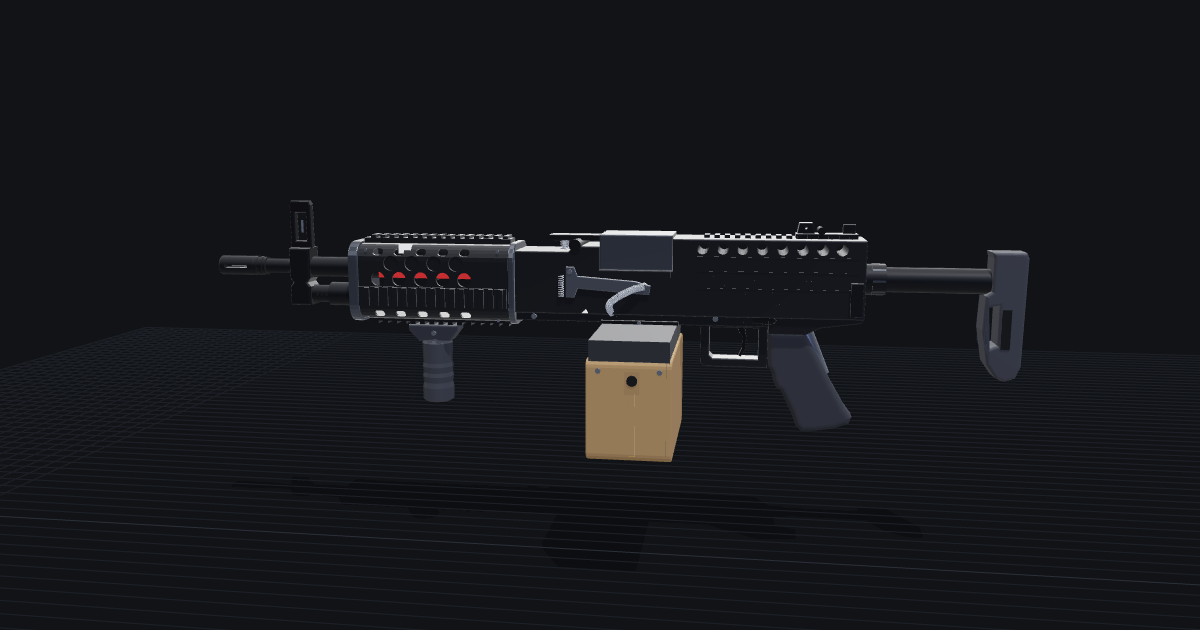
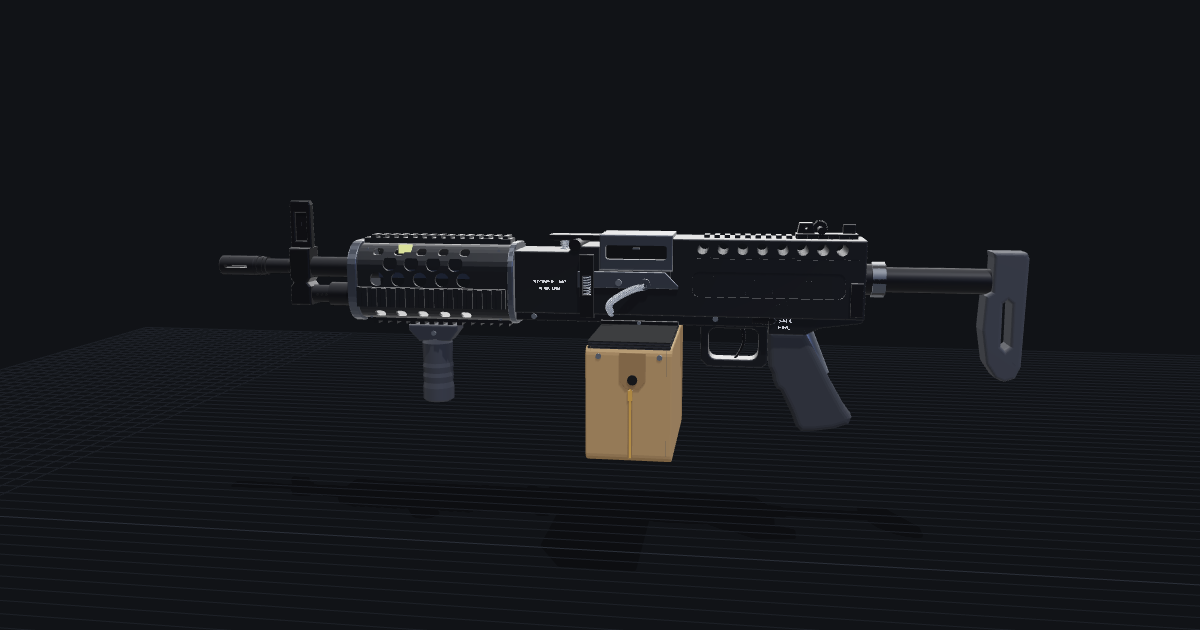
stoner96: refine against the Redwolf side photos
- STONER LMG / 5.56 MM and SAFE / FIRE roll marks on both sides (canvas decals)
- Recessed side panels on the upper receiver; right-side charging channel with
  longer hollow olive knobs
- Top cover side windows as dark recesses (the old window cut was buried inside
  the solid)
- Feed arm redrawn: flat plate, latch lever with its spring in a window, tube clip
- Rounder handguard section, side rails stand proud, screws and dimples follow
  the curve; battery in dark wrap with the yellow-green Tamiya plug
- Rounded trigger guard opening, curved trigger blade
- Stock slot moved to the middle of the butt plate and cut through; hex buffer
  tube nut; windage drum on the rear sight
- Box mag: shorter black top frame, pouch flap, zip and grommets on the cover
  surface (they were buried in its bevel), right-side zip and grommets
- Front sight post window is a recess, not a through hole
- Handguard, grip and mag cover are x-ray shells, so battery, motor and mag
  internals show
- New preview

diff --git a/stoner96/index.html b/stoner96/index.html
@@ -236,6 +236,10 @@ const MAT = {
   blue:   { color: 0x3d6fd1, metalness: 0.3,  roughness: 0.45 },
   tan:    { color: 0x7d6442, metalness: 0.0,  roughness: 0.97 },
   anod:   { color: 0x1f2125, metalness: 0.55, roughness: 0.48 },
+  wrap:   { color: 0x1f2633, metalness: 0.1,  roughness: 0.5 },
+  plug:   { color: 0xd2ea5c, metalness: 0.0,  roughness: 0.5 },
+  tan2:   { color: 0x6c5537, metalness: 0.0,  roughness: 0.97 },
+  olive:  { color: 0x4f4e43, metalness: 0.6,  roughness: 0.42 },
 };
 
 // ---------- geometry helpers (x = along gun, muzzle +; y = up; z = right side) ----------
@@ -551,16 +555,32 @@ function fixTJunctions(g) {
   return o;
 }
 
+// white roll marks: text drawn on a canvas, laid flat on a side face. alphaTest (not transparency) keeps the letters crisp
+// and lets the x-ray toggle fade them with the shell they sit on.
+function decal(key, lines, x0, x1, y0, y1, z, { align = 'center', bold = true } = {}) {
+  const W = 512, H = Math.round(W * (y1 - y0) / (x1 - x0)), cv = document.createElement('canvas');
+  cv.width = W; cv.height = H;
+  const c = cv.getContext('2d'), lh = H / lines.length;
+  c.fillStyle = '#e4e6e8'; c.textAlign = align; c.textBaseline = 'middle';
+  c.font = `${bold ? 'bold ' : ''}${Math.round(lh * 0.8)}px Arial, Helvetica, sans-serif`;
+  lines.forEach((t, i) => c.fillText(t, align === 'center' ? W / 2 : 4, lh * (i + 0.5), W - 8));
+  const tex = new THREE.CanvasTexture(cv); tex.colorSpace = THREE.SRGBColorSpace; tex.anisotropy = 8;
+  MAT[key] = { color: 0xffffff, map: tex, alphaTest: 0.45, metalness: 0, roughness: 0.6, polygonOffset: true, polygonOffsetFactor: -4 };
+  const g = new THREE.PlaneGeometry(x1 - x0, y1 - y0);
+  if (z < 0) g.rotateY(Math.PI);                // left-side marks face -z and still read left to right
+  return [g.translate((x0 + x1) / 2, (y0 + y1) / 2, z), key];
+}
+
 const MUZ = X(6);              // muzzle face, 324mm ahead of the receiver front
 const HG0 = X(474), HG1 = X(226);   // handguard rear and front faces
-const HG_Y = -12, HG_W = 31, HG_H = 39;   // handguard section centre, half width and half height
+const HG_Y = -12, HG_W = 34, HG_H = 39;   // handguard section centre, half width and half height
 const RW = 28;                 // receiver half width (approximate, no top view published)
 const GT_Y = Y(370);           // gas tube axis
 const SHELL_Z = 15;            // gearbox shell half width
 const BUF_Y = Y(334);          // buffer tube axis
 const MAG_Z = -40, MAG_HZ = 75;   // box mag centre and half length across the gun: it hangs out to the left, the belt side
 const MAG_X0 = X(707), MAG_X1 = X(600);
-const MAG_TOP = Y(400), MAG_FR = Y(430), MAG_BOT = Y(560);
+const MAG_TOP = Y(401), MAG_FR = Y(413), MAG_BOT = Y(560);
 
 // ================= BARREL AND FRONT END =================
 part('flashHider', 'Flash hider (birdcage)', 'frt', [], [70, 0, 0],
@@ -572,6 +592,7 @@ part('frontSight', 'Front sight block + folding post', 'frt', [], [40, 60, 0],
   'Front sight block clamped over the outer barrel and the gas tube, with a folding front sight post on top. The post folds back flat for optics.',
   [[profR(P([[121, 300], [153, 300], [153, 345], [148, 352], [153, 358], [153, 386], [121, 386], [121, 358], [126, 352], [121, 345]]), 24, 2), 'blued'],
    [profR(P([[122, 230], [151, 230], [153, 236], [153, 301], [121, 301], [121, 236]]), 9, 1.2, [P([[128, 247], [146, 247], [146, 290], [128, 290]])]), 'blued'],
+   [profR(P([[128, 247], [146, 247], [146, 290], [128, 290]]), 4, 0.6), 'blued'],
    [cyl(1.2, 13, 'y', X(137), Y(268), 0), 'steel']]);
 
 part('outerBarrel', 'Outer barrel', 'frt', [], [20, 30, 0],
@@ -586,22 +607,23 @@ part('gasTube', 'Gas cylinder (dummy)', 'frt', [], [20, -40, 0],
 part('handguard', 'Handguard + end caps', 'frt', [], [30, 0, 0],
   'Round aluminium handguard with four Picatinny rails and two rows of through-holes each side between rows of blind dimples. It holds the battery (7.4V or 8.4V stick, Tamiya plug, not included): the plug shows through the upper holes. On the Stoner the handguard, barrel and front sight come off as one group.',
   (() => {
-    const sec = rr(-HG_W, HG_W, HG_Y - HG_H, HG_Y + HG_H, 16, 6);
-    const inner = rr(-HG_W + 3, HG_W - 3, HG_Y - HG_H + 3, HG_Y + HG_H - 3, 13, 6).reverse();
+    const sec = rr(-HG_W, HG_W, HG_Y - HG_H, HG_Y + HG_H, 25, 8);
+    const hz = y => { const c = HG_Y + HG_H - 25, d = HG_Y - HG_H + 25, e = y > c ? y - c : y < d ? y - d : 0; return HG_W - 25 + Math.sqrt(625 - e * e); };   // side surface at height y
+    const inner = rr(-HG_W + 3, HG_W - 3, HG_Y - HG_H + 3, HG_Y + HG_H - 3, 22, 8).reverse();
     const XS = [270, 302, 335, 368, 400].map(X), XD = [290, 322, 355, 388].map(X);
     const slot = (x, y, l, h) => prof(rr(x - l / 2, x + l / 2, y - h / 2, y + h / 2, h / 2 - 0.01, 4), 90, 0);
     const body = cut(secX(sec, HG0 + 5, HG1 - 7, 0, [inner]), [
       ...XS.map(x => slot(x, Y(301), 11, 6.5)), ...XS.map(x => slot(x, Y(392), 11, 6.5)),
       ...XS.map(x => cyl(7.2, 90, 'z', x, Y(340), 0, 28)),
-      ...XD.flatMap(x => [1, -1].map(s => cyl(7.6, 6, 'z', x, Y(317), s * (HG_W + 0.8), 28)))]);
-    const cap = (x0, x1) => secX(rr(-HG_W - 1.5, HG_W + 1.5, HG_Y - HG_H - 1.5, HG_Y + HG_H + 1.5, 17.5, 6), x0, x1, 1.2, [rr(-12, 12, -12, 12, 11.9, 6).reverse()]);
+      ...XD.flatMap(x => [1, -1].map(s => cyl(7.6, 6, 'z', x, Y(317), s * (hz(Y(317)) + 0.8), 28)))]);
+    const cap = (x0, x1) => secX(rr(-HG_W - 1.5, HG_W + 1.5, HG_Y - HG_H - 1.5, HG_Y + HG_H + 1.5, 26.5, 8), x0, x1, 1.2, [rr(-12, 12, -12, 12, 11.9, 6).reverse()]);
     return [[body, 'anod'], [cap(HG1 - 9, HG1 - 1.2), 'dark'], [cap(HG0 + 1.2, HG0 + 5), 'dark'],
       ...rail(HG0 + 8, HG1 - 10, 'up', HG_Y + HG_H - 0.5, { halfW: 10.5, base: 6, tooth: 3 }).map(g => [g, 'anod']),
       ...rail(HG0 + 8, HG1 - 10, 'down', -(HG_Y - HG_H + 0.5), { halfW: 10.5, base: 4, tooth: 3 }).map(g => [g, 'anod']),
-      ...rail(HG0 + 8, HG1 - 10, 'right', HG_W - 2, { halfW: 10, base: 3.5, tooth: 3, yc: Y(366) }).map(g => [g, 'anod']),
-      ...rail(HG0 + 8, HG1 - 10, 'left', HG_W - 2, { halfW: 10, base: 3.5, tooth: 3, yc: Y(366) }).map(g => [g, 'anod']),
-      ...[[X(253), Y(298)], [X(450), Y(298)], [X(253), Y(398)], [X(450), Y(398)]].flatMap(([x, y]) => [1, -1].map(s => [cyl(1.6, 1.2, 'z', x, y, s * (HG_W + 0.2), 12), 'steel']))];
-  })());
+      ...rail(HG0 + 8, HG1 - 10, 'right', HG_W - 2, { halfW: 10, base: 5.5, tooth: 3, yc: Y(366) }).map(g => [g, 'anod']),
+      ...rail(HG0 + 8, HG1 - 10, 'left', HG_W - 2, { halfW: 10, base: 5.5, tooth: 3, yc: Y(366) }).map(g => [g, 'anod']),
+      ...[[X(253), Y(298)], [X(450), Y(298)], [X(253), Y(398)], [X(450), Y(398)]].flatMap(([x, y]) => [1, -1].map(s => [cyl(1.6, 1.2, 'z', x, y, s * (hz(y) + 0.2), 12), 'steel']))];
+  })(), { shell: true });
 
 part('vertGrip', 'Vertical foregrip', 'frt', [], [0, -70, 0],
   'Polymer vertical foregrip on a Picatinny clamp, supplied with the gun along with two ribbed rail covers. It clamps to the bottom rail of the handguard.',
@@ -611,10 +633,10 @@ part('vertGrip', 'Vertical foregrip', 'frt', [], [0, -70, 0],
 
 part('battery', 'Battery (7.4V LiPo stick, not included) + leads', 'frt', [], [60, 60, -60],
   'The battery goes in the handguard: a 7.4V or 8.4V stick pack with a Tamiya plug (not included). The leads come forward out of the gearbox, so the wiring runs along the barrel to the handguard. Shown as a 7.4V 1200mAh-size stick beside the barrel.',
-  [[bx(25, 140, -7, 9, -27, -13), 'red'],
+  [[bx(25, 140, -7, 9, -27, -13), 'wrap'],
    [tubeAlong([[-10, -12, -16], [10, -8, -18], [25, -2, -20]], 1.1, 24), 'black'],
    [tubeAlong([[140, 1, -20], [130, 14, -22], [115, 22, -24]], 1.1, 24), 'black'],
-   [bx(105, 118, 18, 27, -27, -21), 'white']]);
+   [bx(105, 118, 18, 27, -27, -21), 'plug']]);
 
 // ================= RECEIVER =================
 // upper receiver: traced side outline, the rear section raised with a Picatinny top rail over a row of lightening holes
@@ -627,24 +649,33 @@ part('upperRcv', 'Upper receiver + top rail', 'rcv', [], [0, 80, 0],
       bx(X(700) + 1, X(597) - 1, Y(322) - 30, Y(322) + 1, -RW + 4, RW - 4),           // feed tray well under the cover
       cyl(4.2, 10, 'z', X(660), -11, -RW + 1, 20),                                       // BB feed port in the left wall
       cyl(3.6, 80, 'z', X(575), Y(384), 0, 16),                                         // front lightening hole
-      bx(X(963), X(700), -16, 16, -SHELL_Z - 1, SHELL_Z + 1)]);                       // gearbox tunnel
+      bx(X(963), X(700), -16, 16, -SHELL_Z - 1, SHELL_Z + 1),                         // gearbox tunnel
+      prof(rr(X(938), X(728), Y(358), Y(322), 7, 4), 2.4, 0).translate(0, 0, -RW),        // left side panel
+      prof(rr(X(938), X(728), Y(342), Y(322), 6, 4), 2.4, 0).translate(0, 0, RW),         // right side panel
+      prof(rr(X(955), X(560), Y(359), Y(345), 4.5, 4), 6, 0).translate(0, 0, RW),         // charging handle channel, right side
+      ...[1, -1].map(s => bx(X(955), X(735), Y(304), Y(302), s * RW - 0.6, s * RW + 0.6))]);  // step under the rail section
     return [[body, 'anod'],
       ...rail(X(955), X(735), 'up', Y(277) - 1, { halfW: 10.5, base: 1, tooth: 3 }).map(g => [g, 'anod']),
-      ...[302, 322, 346].flatMap(py => [1, -1].map(s => [bx(X(955), X(735), Y(py) - 0.6, Y(py) + 0.6, s * RW - 0.5, s * RW + 0.5), 'anod']))];
+      decal('markL', ['STONER LMG', '5.56 MM'], X(550), X(500), Y(356), Y(336), -RW - 0.05),
+      decal('markR', ['STONER LMG', '5.56 MM'], X(550), X(500), Y(356), Y(336), RW + 0.05)];
   })(), { shell: true });
 
 part('lowerRcv', 'Lower receiver (trigger housing)', 'rcv', [], [0, -40, 0],
   'Lower receiver: the trigger housing with the trigger guard and the selector, and the pistol grip below. It joins the upper with a tongue-and-groove rail and two body pins; the gearbox rests in it.',
   (() => {
     const tray = profR(P([[470, 386], [965, 386], [962, 392], [905, 400], [887, 410], [835, 410], [835, 400], [705, 400], [705, 396], [600, 396], [600, 398], [470, 398]]), 46, 1.2);
-    const guard = profR(P([[740, 399], [835, 399], [835, 462], [745, 462], [740, 457]]), 22, 1.5, [P([[752, 405], [822, 405], [822, 450], [757, 450], [752, 445]])]);
-    return [[cut(tray, [bx(X(835), X(752), Y(410), Y(395), -12, 12)]), 'anod'], [guard, 'anod']];
+    const guard = profR(P([[740, 399], [835, 399], [835, 455], [828, 462], [750, 462], [740, 452]]), 22, 1.5, [rr(X(822), X(751), Y(451), Y(406), 8, 5)]);
+    return [[cut(tray, [bx(X(835), X(752), Y(410), Y(395), -12, 12)]), 'anod'], [guard, 'anod'],
+      decal('safeL', ['SAFE', 'FIRE'], X(876), X(848), Y(405), Y(386), -23.05, { align: 'left' }),
+      decal('safeR', ['SAFE', 'FIRE'], X(876), X(848), Y(405), Y(386), 23.05, { align: 'left' })];
   })(), { shell: true });
 
 part('topCover', 'Top cover (feed cover)', 'rcv', [], [0, 110, 0],
-  'Top cover over the feed tray. On the real gun it holds the belt feed; on the airsoft gun it hinges up to reach the hop-up adjuster and the feed tray. The window on top is a dummy.',
-  [[cut(profR(P([[597, 272], [700, 272], [700, 322], [597, 322]]), RW * 2, 1.5), [bx(X(690), X(605), Y(300), Y(281), -RW + 5, RW - 5)]), 'dark'],
-   [bx(X(690), X(605), Y(300), Y(296), -RW + 5, RW - 5), 'black']]);
+  'Top cover over the feed tray. On the real gun it holds the belt feed; on the airsoft gun it hinges up to reach the hop-up adjuster and the feed tray. The windows in its sides are dummies.',
+  [[cut(profR(P([[597, 272], [700, 272], [700, 322], [597, 322]]), RW * 2, 1.5), [
+      prof(rr(X(692), X(605), Y(307), Y(287), 3, 3), 14, 0).translate(0, 0, -RW), prof(rr(X(692), X(605), Y(307), Y(287), 3, 3), 14, 0).translate(0, 0, RW)]), 'dark'],
+   [bx(X(692), X(605), Y(307), Y(287), -21.4, -21.05), 'black'], [bx(X(692), X(605), Y(307), Y(287), 21.05, 21.4), 'black'],
+   [bx(X(653), X(643), Y(293), Y(291), -RW + 4, RW - 4), 'steel']]);
 
 part('coverLatch', 'Top cover latch lever + spring', 'rcv', [], [30, 100, 0],
   'Latch lever ahead of the top cover, held down by a coil spring. Press it to unlatch and lift the cover.',
@@ -660,20 +691,25 @@ part('feedTray', 'Feed tray + BB feed port', 'rcv', [], [0, 50, -40],
    [cyl(3.4, 14, 'z', X(660), -11, -RW + 4, 16), 'steel']]);
 
 part('feedArm', 'Feed tube arm + spring', 'rcv', [], [0, 20, -70],
-  'Spring-loaded arm on the left side of the receiver. The top of the BB feed tube clips into its back end, which lines up with the BB port into the feed tray; a coil spring at the front keeps it closed. Swing it out to free the tube.',
-  [[profR(P([[549, 318], [561, 318], [566, 331], [648, 337], [670, 343], [668, 356], [648, 355], [566, 349], [561, 362], [549, 362]]), 4, 1).translate(0, 0, -RW - 2.2), 'zinc'],
-   [spring(2.6, 0.45, 22, 10, 'y', X(542), Y(362), -RW - 2.6), 'spring'], [cyl(2.4, 6, 'z', X(555), Y(325), -RW - 2.2, 16), 'steel']]);
+  'Spring-loaded arm on the left side of the receiver. The top of the BB feed tube clips into its back end, which lines up with the BB port into the feed tray. The latch lever at its front end, with its coil spring showing through a window, keeps it closed. Swing it out to free the tube.',
+  [[profR(P([[566, 324], [690, 324], [709, 343], [709, 347], [566, 347]]), 4, 0.8).translate(0, 0, -RW - 2), 'dark'],
+   [profR(P([[570, 300], [590, 300], [590, 390], [570, 390]]), 4, 0.8, [P([[574, 330], [586, 330], [586, 357], [574, 357]])]).translate(0, 0, -RW - 5), 'blued'],
+   [spring(3.4, 0.5, 18, 7, 'y', X(580), Y(357), -RW - 5), 'spring'],
+   [cyl(3.2, 4, 'z', X(625), Y(339), -RW - 4.5, 16), 'steel'],
+   [latheX([[3.3, 0], [5.6, 0], [5.6, 6], [3.3, 6], [3.3, 0]], 24).rotateY(Math.PI / 2).translate(X(662), Y(341), -RW - 0.5), 'dark']]);
 
 part('charging', 'Charging handle knob + side stud (dummy)', 'rcv', [], [0, 0, 60],
-  'Hollow knob and stud on the right side of the receiver, after the real gun’s charging handle. Dummy on the airsoft gun.',
-  [[latheX([[0, 0], [9, 0], [9, 13], [6, 13], [6, 2], [0, 2]], 28).rotateY(-Math.PI / 2).translate(X(759), Y(352), RW - 1), 'steel'],
-   [latheX([[0, 0], [7, 0], [7, 9], [4.5, 9], [4.5, 2], [0, 2]], 28).rotateY(-Math.PI / 2).translate(X(659), Y(353), RW - 1), 'steel']]);
+  'Hollow knob and stud on the right side of the receiver, standing out of the long channel the real gun’s charging handle runs in. Dummy on the airsoft gun.',
+  [[latheX([[0, 0], [8.4, 0], [8.4, 21], [5.6, 21], [5.6, 4], [0, 4]], 28).rotateY(-Math.PI / 2).translate(X(759), Y(352), RW - 6), 'olive'],
+   [latheX([[0, 0], [6.6, 0], [6.6, 14], [4.2, 14], [4.2, 4], [0, 4]], 28).rotateY(-Math.PI / 2).translate(X(659), Y(352), RW - 6), 'olive'],
+   [cyl(5.4, 0.4, 'z', X(759), Y(352), RW - 1.8, 24), 'black'], [cyl(4, 0.4, 'z', X(659), Y(352), RW - 1.8, 20), 'black']]);
 
 part('rearSight', 'Rear sight (flip-up)', 'rcv', [], [0, 70, 0],
   'Rear aperture sight on the top rail, at the back of the receiver.',
   [[profR(P([[870, 270], [955, 270], [955, 277], [870, 277]]), 20, 0.8), 'blued'],
    [profR(P([[875, 255], [893, 255], [896, 270], [872, 270]]), 14, 0.8, [circ(X(884), Y(262), 1.2, 12)]), 'blued'],
    [cyl(3.6, 24, 'z', X(905), Y(266), 0, 16), 'blued'],
+   [gear(7.6, 30, 7, X(905), Y(264), 15.5, { hole: 0 }), 'blued'],
    [profR(P([[935, 257], [952, 257], [952, 270], [935, 270]]), 6, 0.8), 'blued']]);
 
 part('selector', 'Selector lever (SAFE / FIRE)', 'rcv', [], [0, 0, -50],
@@ -712,7 +748,12 @@ part('gears', 'Gear set (sector, spur, bevel)', 'gbx', [], [0, 130, -90],
 
 part('trigger', 'Trigger + trigger switch', 'gbx', [], [0, 100, -60],
   'Trigger in the gearbox and the micro switch it closes. No electronic trigger from the factory; the wires leave the gearbox at the front.',
-  [[profR(P([[787, 395], [800, 395], [805, 420], [804, 438], [797, 449], [794, 447], [799, 436], [799, 420], [790, 404]]), 6, 1), 'blued'],
+  [[profR((() => {   // blade along a quadratic curve, tapering to the tip
+      const q = (t, a, b, c) => (1 - t) ** 2 * a + 2 * t * (1 - t) * b + t * t * c, F = [], B = [];
+      for (let i = 0; i <= 12; i++) { const t = i / 12, x = q(t, 794, 812, 788), y = q(t, 398, 426, 453);
+        const dx = 2 * (1 - t) * (812 - 794) + 2 * t * (788 - 812), dy = 2 * (1 - t) * (426 - 398) + 2 * t * (453 - 426), l = Math.hypot(dx, dy), w = 3 - 1.6 * t;
+        F.push([x - dy / l * w, y + dx / l * w]); B.push([x + dy / l * w, y - dx / l * w]); }
+      return P([...F, ...B.reverse()]); })(), 6, 1), 'blued'],
    [bx(-222, -200, -34, -20, -6, 6), 'black'], [bx(-216, -205, -20, -17, -3, 3), 'brass']]);
 
 part('motor', 'Motor (long type, in the grip)', 'gbx', [], [-40, 60, -70],
@@ -740,18 +781,17 @@ part('wiring', 'Wiring (front wired)', 'gbx', [], [0, 150, -40],
 // ================= GRIP AND STOCK =================
 part('grip', 'Pistol grip + motor plate', 'stk', [], [0, -120, 0],
   'A2-style pistol grip that houses the motor. The base plate screws off to reach the motor height screw.',
-  [[profR(P([[834, 408], [887, 408], [904, 440], [925, 480], [945, 515], [956, 530], [952, 540], [930, 548], [905, 552], [885, 553], [878, 546], [870, 525], [855, 495], [848, 490], [844, 480], [842, 470], [837, 460], [835, 430]]), 30, 6), 'checker']]);
+  [[profR(P([[834, 408], [887, 408], [904, 440], [925, 480], [945, 515], [956, 530], [952, 540], [930, 548], [905, 552], [885, 553], [878, 546], [870, 525], [855, 495], [848, 490], [844, 480], [842, 470], [837, 460], [835, 430]]), 30, 6), 'checker']], { shell: true });
 
 part('bufferTube', 'Buffer tube + receiver adapter', 'stk', [], [-90, 0, 0],
   'Buffer tube the stock slides on, screwed into an adapter at the back of the receiver. Aftermarket adapters fit AR stocks and M249 Para stocks.',
   [[latheX([[0, X(965)], [15.5, X(965)], [15.5, X(995)], [12.6, X(995)], [12.6, X(1140)], [0, X(1140)]].reverse(), 32).translate(0, BUF_Y, 0), 'blued'],
-   [latheX([[12.7, X(976)], [15.8, X(976)], [15.8, X(994)], [12.7, X(994)]].reverse(), 8).translate(0, BUF_Y, 0), 'dark']]);
+   [latheX([[12.7, X(976)], [17.6, X(976)], [17.6, X(994)], [12.7, X(994)]].reverse(), 6, 0, 0, Math.PI / 6).translate(0, BUF_Y, 0), 'zinc']]);
 
 part('stock', 'Retractable stock', 'stk', [], [-180, 0, 0],
   'Retractable stock on the buffer tube; adjusting it takes the gun from 819mm (stock in) to 889mm (stock out). It comes off for the field strip: unscrew the bolt underneath, then press the side lever.',
   [[profR(P([[1133, 292], [1178, 292], [1181, 300], [1179, 450], [1172, 466], [1158, 471], [1146, 466], [1133, 447], [1125, 400], [1127, 352], [1135, 346], [1135, 300]]), 30, 3,
-    [P([[1132, 368], [1146, 365], [1146, 420], [1137, 424], [1132, 418]])]), 'poly'],
-   [cut(bx(X(1162), X(1150), Y(425), Y(370), -16, 16), [bx(X(1170), X(1140), Y(440), Y(360), -14, 14)]), 'black']]);
+    [P([[1150, 362], [1156, 357], [1162, 362], [1163, 421], [1157, 427], [1151, 421]])]), 'poly']]);
 
 part('stockLatch', 'Stock release lever', 'stk', [], [-60, 0, -40],
   'Side lever at the back of the receiver that releases the stock and buffer tube.',
@@ -760,17 +800,21 @@ part('stockLatch', 'Stock release lever', 'stk', [], [-60, 0, -40],
 // ================= BOX MAGAZINE =================
 part('magBox', 'Box magazine shell + top frame', 'mag', [], [0, -130, -50],
   '1200-round electric box magazine: a hard inner box under a tan Cordura cover, with a black top frame that clamps to the bracket under the receiver. The loading door tends to pop open (owners tape it after filling) and the last 200 or so BBs rattle and won’t feed without a shake.',
-  [[cut(bx(MAG_X0, MAG_X1, MAG_FR, MAG_TOP, MAG_Z - MAG_HZ, MAG_Z + MAG_HZ), [bx(MAG_X0 + 6, MAG_X1 - 6, MAG_FR + 6, MAG_TOP - 5, MAG_Z - MAG_HZ + 6, MAG_Z + MAG_HZ - 30)]), 'poly2'],
-   ...[0, 1, 2].map(i => [bx(MAG_X0 + 8, MAG_X1 - 8, MAG_FR + 8 + i * 4, MAG_FR + 9.5 + i * 4, MAG_Z - MAG_HZ + 8, MAG_Z + MAG_HZ - 32), 'black']),
+  [[cut(bx(MAG_X0, MAG_X1, MAG_FR, MAG_TOP, MAG_Z - MAG_HZ, MAG_Z + MAG_HZ), [bx(MAG_X0 + 5, MAG_X1 - 5, MAG_FR - 1, MAG_TOP - 3, MAG_Z - MAG_HZ + 5, MAG_Z + MAG_HZ - 5)]), 'poly2'],
+   ...[0, 1, 2].map(i => [bx(MAG_X0 - 0.6, MAG_X1 + 0.6, MAG_FR + 2.5 + i * 2.6, MAG_FR + 3.5 + i * 2.6, MAG_Z - MAG_HZ - 0.6, MAG_Z + MAG_HZ + 0.6), 'black']),
    [bx(MAG_X0 + 3, MAG_X1 - 3, MAG_BOT + 3, MAG_FR, MAG_Z - MAG_HZ + 3, MAG_Z + MAG_HZ - 3), 'poly']], { shell: true });
 
 part('magPouch', 'Magazine cover (Cordura pouch)', 'mag', [], [0, -150, -110],
   'Tan Cordura cover over the box, with a zip, a snap strap and grommets, after the real gun’s soft ammo pouch.',
   [[cut(secX(rr(MAG_Z - MAG_HZ - 1, MAG_Z + MAG_HZ + 1, MAG_BOT, MAG_FR + 2, 6, 4), MAG_X0 - 1, MAG_X1 + 1, 1.5), [bx(MAG_X0 + 2, MAG_X1 - 2, MAG_BOT + 3, MAG_FR + 6, MAG_Z - MAG_HZ + 2, MAG_Z + MAG_HZ - 2)]), 'tan'],
-   [bx(X(662), X(654), MAG_BOT + 4, Y(470), MAG_Z - MAG_HZ - 2.2, MAG_Z - MAG_HZ - 1), 'brass'],
-   [bx(X(668), X(648), Y(440), Y(470), MAG_Z - MAG_HZ - 2.4, MAG_Z - MAG_HZ - 1), 'tan'],
-   [cyl(5, 2, 'z', X(658), Y(452), MAG_Z - MAG_HZ - 3, 20), 'black'],
-   ...[[X(613), Y(440)], [X(694), Y(440)]].map(([x, y]) => [cyl(2.6, 1.6, 'z', x, y, MAG_Z - MAG_HZ - 1.8, 16), 'steel'])]);
+   [bx(X(659), X(653), MAG_BOT + 3, Y(458), MAG_Z - MAG_HZ - 3.3, MAG_Z - MAG_HZ - 2.2), 'tan2'],
+   [bx(X(657.5), X(654.5), MAG_BOT + 3, Y(458), MAG_Z - MAG_HZ - 3.7, MAG_Z - MAG_HZ - 3), 'brass'],
+   [bx(X(659), X(653), Y(478), Y(464), MAG_Z - MAG_HZ - 4.4, MAG_Z - MAG_HZ - 3), 'brass'],
+   [profR(P([[642, 414], [676, 414], [676, 452], [668, 462], [650, 462], [642, 452]]), 2.2, 0.5).translate(0, 0, MAG_Z - MAG_HZ - 3.4), 'tan2'],
+   [cyl(4.6, 2.4, 'z', X(659), Y(450), MAG_Z - MAG_HZ - 4.8, 20), 'black'],
+   ...[[X(614), Y(420)], [X(694), Y(420)]].flatMap(([x, y]) => [[cyl(2.6, 1.6, 'z', x, y, MAG_Z - MAG_HZ - 2.8, 16), 'steel'], [cyl(2.6, 1.6, 'z', x, y, MAG_Z + MAG_HZ + 2.8, 16), 'steel']]),
+   [bx(X(659), X(653), MAG_BOT + 3, Y(462), MAG_Z + MAG_HZ + 2.2, MAG_Z + MAG_HZ + 3.3), 'tan2'],
+   [bx(X(657.5), X(654.5), MAG_BOT + 3, Y(462), MAG_Z + MAG_HZ + 3, MAG_Z + MAG_HZ + 3.7), 'brass']], { shell: true });
 
 part('feedTube', 'BB feed tube (spring tube)', 'mag', [], [-20, -80, -90],
   'Flexible spring feed tube from the mag to the port in the left side of the receiver. Its collar is Stoner-specific: to run an M249 box mag the collar or the whole tube is swapped (a printed Stoner 96 feed tube, a 3/8in coupler, or a BCI adapter).',
